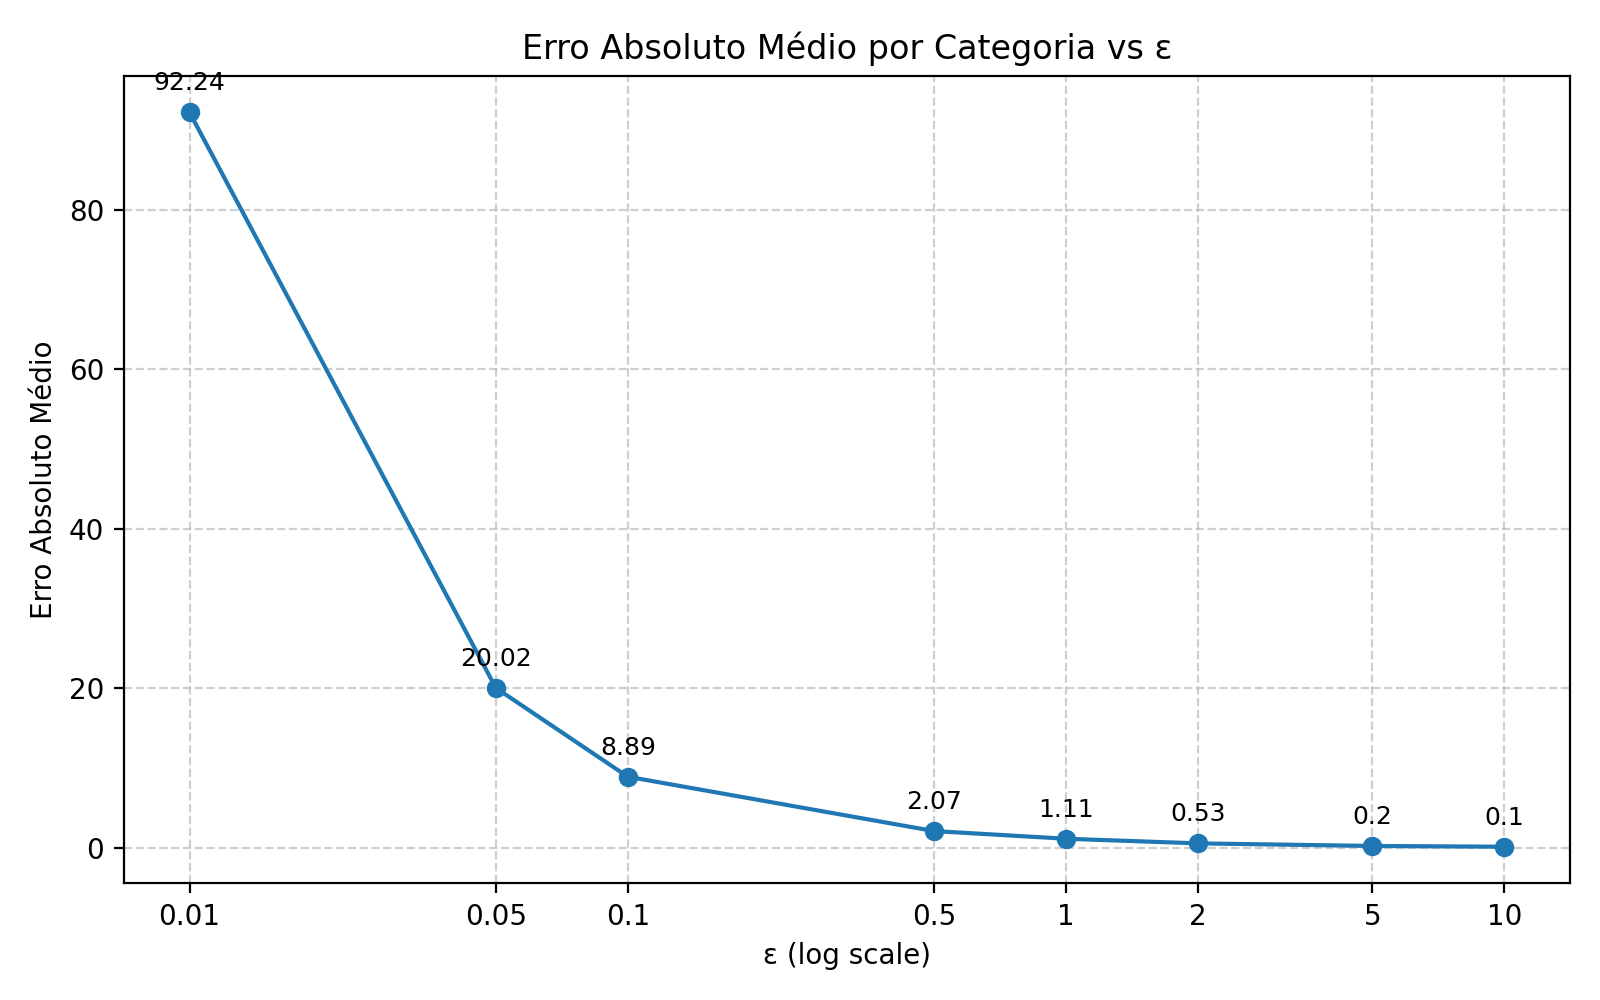
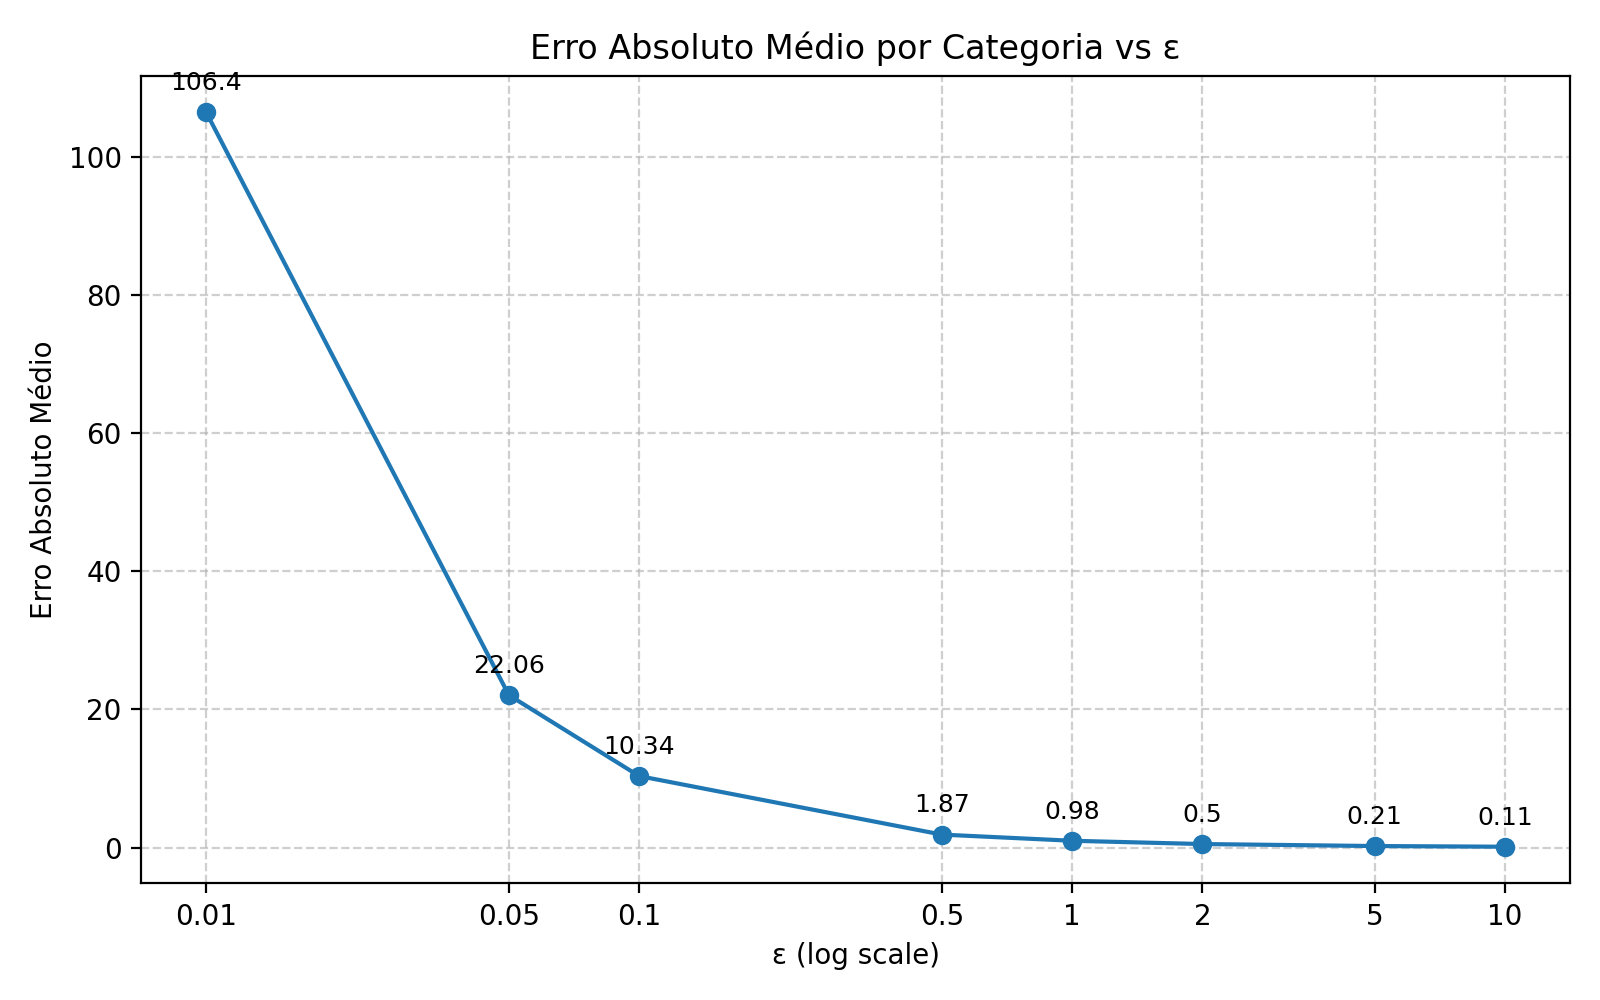
modificando o mecanismo de laplace

diff --git a/Trab3 - Laplace/laplace.py b/Trab3 - Laplace/laplace.py
@@ -9,14 +9,10 @@ def laplace_mechanism(
 
     scale = sensibility / epsilon
 
-    u = np.random.uniform(
-        low=-0.5,
-        high=0.5,
+    noise = np.random.laplace(
+        loc=0,
+        scale=scale,
         size=len(data)
-    )
-
-    noise = -scale * np.sign(u) * np.log(
-        1 - 2 * np.abs(u)
     )
 
     noised_data = data + noise

diff --git a/Trab3 - Laplace/main.py b/Trab3 - Laplace/main.py
@@ -28,6 +28,7 @@ original_series = pd.Series(votes_by_candidate).sort_values(ascending = False)
 tabela_estatisticas = original_series.describe()
 tabela_estatisticas["sum"] = original_series.sum()
 
+print("Tabela com estatísticas do histograma real:")
 print(tabela_estatisticas.round(2))
 
 candidato_mais_votado = original_series.index[0]
@@ -36,10 +37,11 @@ qnt_votos_mais_votado = original_series.iat[0]
 seg_candidato_mais_votado = original_series.index[1]
 gap_entre_top2_candidatos = qnt_votos_mais_votado - original_series.iat[1]
 
-print(candidato_mais_votado)
-print(qnt_votos_mais_votado)
-print(seg_candidato_mais_votado)
-print(gap_entre_top2_candidatos)
+print()
+print("Candidato mais votado:", candidato_mais_votado)
+print("Contagem de votos do candidato mais votado:", qnt_votos_mais_votado)
+print("Segundo candidato mais votado:", seg_candidato_mais_votado)
+print("Gap entre os dois candidatos mais votados:", gap_entre_top2_candidatos)
 
 
 dict_experiments = {}